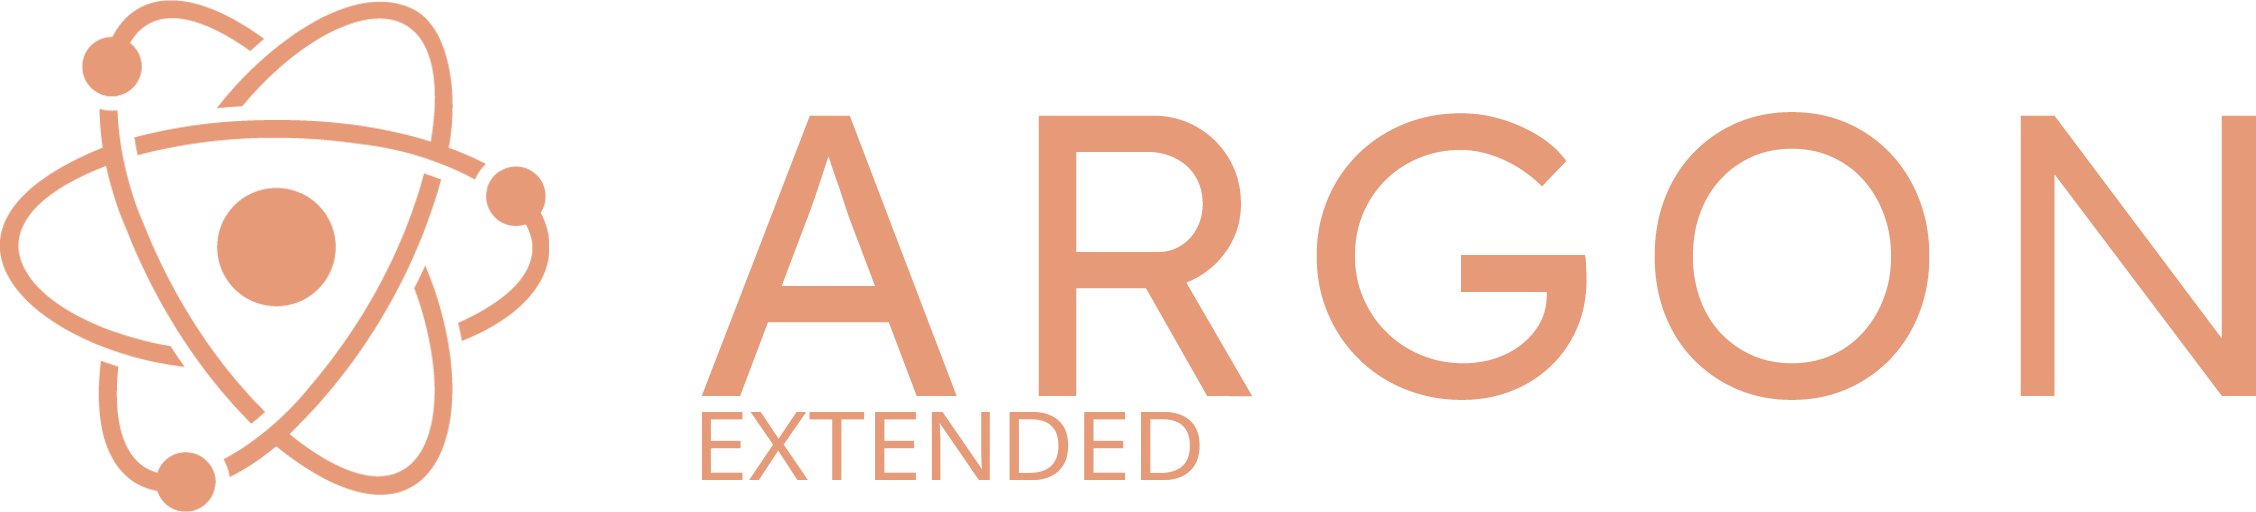
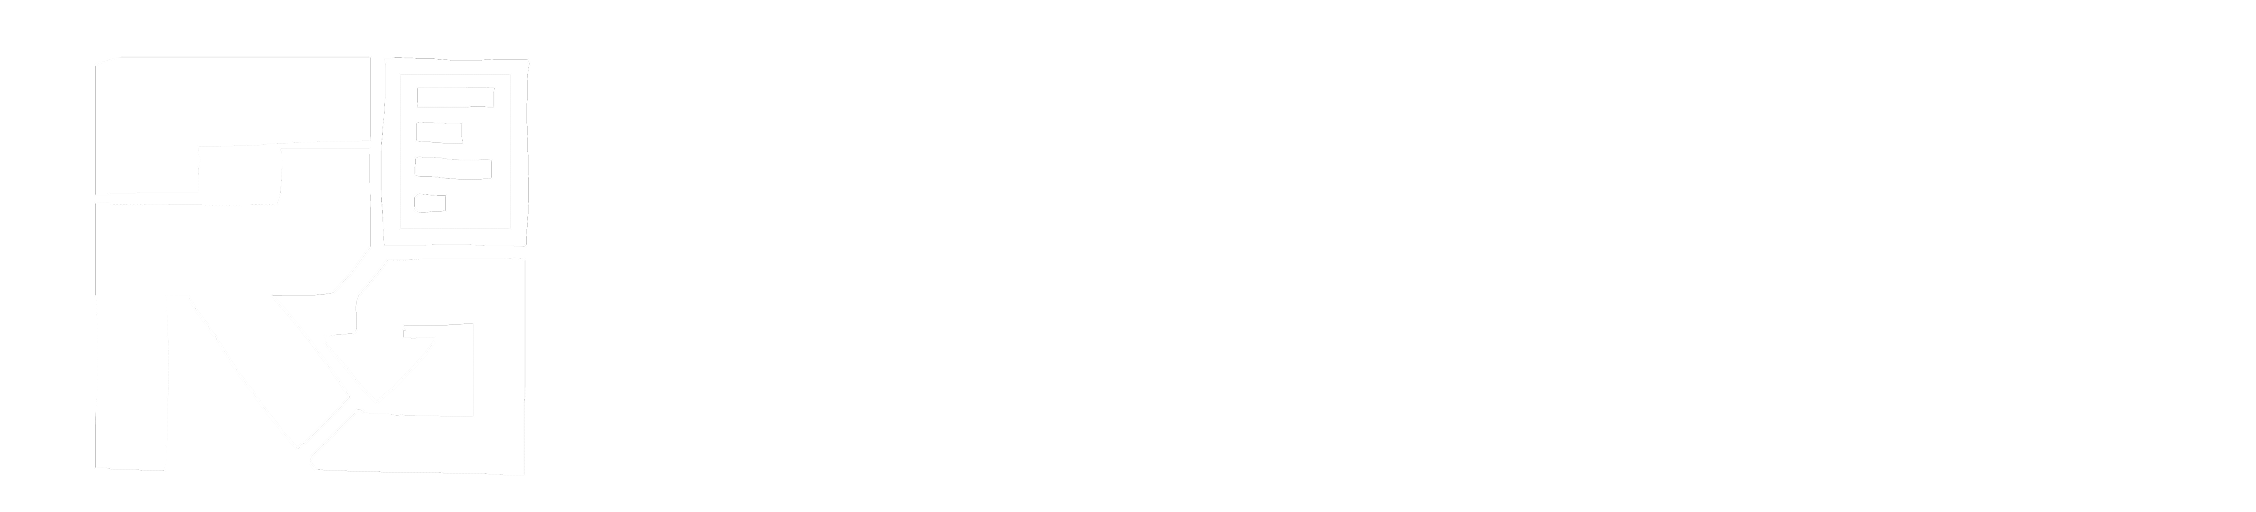
Remove deprecated 'roplica_id', replace with 'UniqueId' prop

Changed region(s): [[0.3103, 0.2188, 1.0, 0.9375], [0.0, 0.0, 0.2482, 1.0]]

diff --git a/src/instanceTree.ts b/src/instanceTree.ts
@@ -126,7 +126,7 @@ export class InstanceTreeProvider
       : path.join(wsRoot, configured)
   }
 
-  private readInitMeta(dirPath: string): { className: string; originalName?: string; roplicaId?: string } {
+  private readInitMeta(dirPath: string): { className: string; originalName?: string; uniqueId?: string } {
     // eslint-disable-next-line @typescript-eslint/no-require-imports
     const fs = require("fs") as typeof import("fs")
     const metaPath = path.join(dirPath, "init.meta.json")
@@ -134,10 +134,9 @@ export class InstanceTreeProvider
       const raw = JSON.parse(fs.readFileSync(metaPath, "utf8"))
       const className = typeof raw.className === "string" ? raw.className : "Folder"
       const originalName = typeof raw.originalName === "string" ? raw.originalName : undefined
-      const tags: unknown[] = Array.isArray(raw.properties?.Tags) ? raw.properties.Tags : []
-      const roplicaTag = tags.find((t): t is string => typeof t === "string" && t.startsWith("roplica_id@"))
-      const roplicaId = roplicaTag ? roplicaTag.slice("roplica_id@".length) : undefined
-      return { className, originalName, roplicaId }
+      const uid = raw.properties?.UniqueId?.UniqueId
+      const uniqueId = typeof uid === "string" ? uid : undefined
+      return { className, originalName, uniqueId }
     } catch {
       return { className: "Folder" }
     }
@@ -178,10 +177,10 @@ export class InstanceTreeProvider
       if (entry.name.startsWith("$.")) return []
 
       if (entry.isDirectory()) {
-        const { className, originalName, roplicaId } = this.readInitMeta(fullPath)
+        const { className, originalName, uniqueId } = this.readInitMeta(fullPath)
         const displayName = originalName ?? entry.name
         const item = new InstanceTreeItem(displayName, className, this.extensionUri, fullPath, true)
-        if (roplicaId) item.description = `#${roplicaId.slice(0, 8)}`
+        if (uniqueId) item.description = `#${uniqueId.slice(0, 8)}`
         item.collapsibleState = this.dirHasInstanceChildren(fullPath)
           ? vscode.TreeItemCollapsibleState.Collapsed
           : vscode.TreeItemCollapsibleState.None

diff --git a/webview-ui/src/App.tsx b/webview-ui/src/App.tsx
@@ -60,9 +60,12 @@ export function App() {
   const categories = categorizeProps(className, props, catalog);
 
   const allTags = Array.isArray(props.Tags) ? (props.Tags as string[]) : [];
-  const roplicaId = (() => {
-    const tag = allTags.find((t) => typeof t === "string" && t.startsWith("roplica_id@"));
-    return tag ? tag.slice("roplica_id@".length) : "";
+  const uniqueId = (() => {
+    const uid = props.UniqueId;
+    if (uid && typeof uid === "object" && "UniqueId" in uid && typeof (uid as Record<string, unknown>).UniqueId === "string") {
+      return (uid as Record<string, string>).UniqueId;
+    }
+    return "";
   })();
   const attrs = (props.Attributes && typeof props.Attributes === "object")
     ? (props.Attributes as Record<string, unknown>)
@@ -74,7 +77,7 @@ export function App() {
         instanceName={instanceName}
         className={className}
         iconUri={iconUri}
-        roplicaId={roplicaId}
+        uniqueId={uniqueId}
       />
       <div className="scroll">
         {categories.map(({ name, entries }) => (

diff --git a/webview-ui/src/components/Header.tsx b/webview-ui/src/components/Header.tsx
@@ -2,7 +2,7 @@ interface Props {
   instanceName: string;
   className: string;
   iconUri: string | null;
-  roplicaId: string;
+  uniqueId: string;
 }
 
 const EMOJI_MAP: Record<string, string> = {
@@ -20,7 +20,7 @@ function classEmoji(className: string): string {
   return EMOJI_MAP[className] ?? "⬛";
 }
 
-export function Header({ instanceName, className, iconUri, roplicaId }: Props) {
+export function Header({ instanceName, className, iconUri, uniqueId }: Props) {
   return (
     <div className="header">
       {iconUri ? (
@@ -30,9 +30,9 @@ export function Header({ instanceName, className, iconUri, roplicaId }: Props) {
       )}
       <span className="inst-name" title={instanceName}>{instanceName}</span>
       <span className="cls-name">{className}</span>
-      {roplicaId && (
-        <span className="inst-id" title={roplicaId}>
-          #{roplicaId.slice(0, 8)}
+      {uniqueId && (
+        <span className="inst-id" title={uniqueId}>
+          #{uniqueId.slice(0, 8)}
         </span>
       )}
     </div>

diff --git a/webview-ui/src/components/inputs/PropertyInput.tsx b/webview-ui/src/components/inputs/PropertyInput.tsx
@@ -37,7 +37,7 @@ function arrSet(
 }
 
 export function PropertyInput({ propKey, value, spec, catalog, onChange }: Props) {
-  // Tags is always a string array — show filtered (roplica_id@ stripped in categorize)
+  // Tags is always a string array
   if (propKey === "Tags" && Array.isArray(value)) {
     const tags = (value as unknown[]).filter((t): t is string => typeof t === "string");
     return (